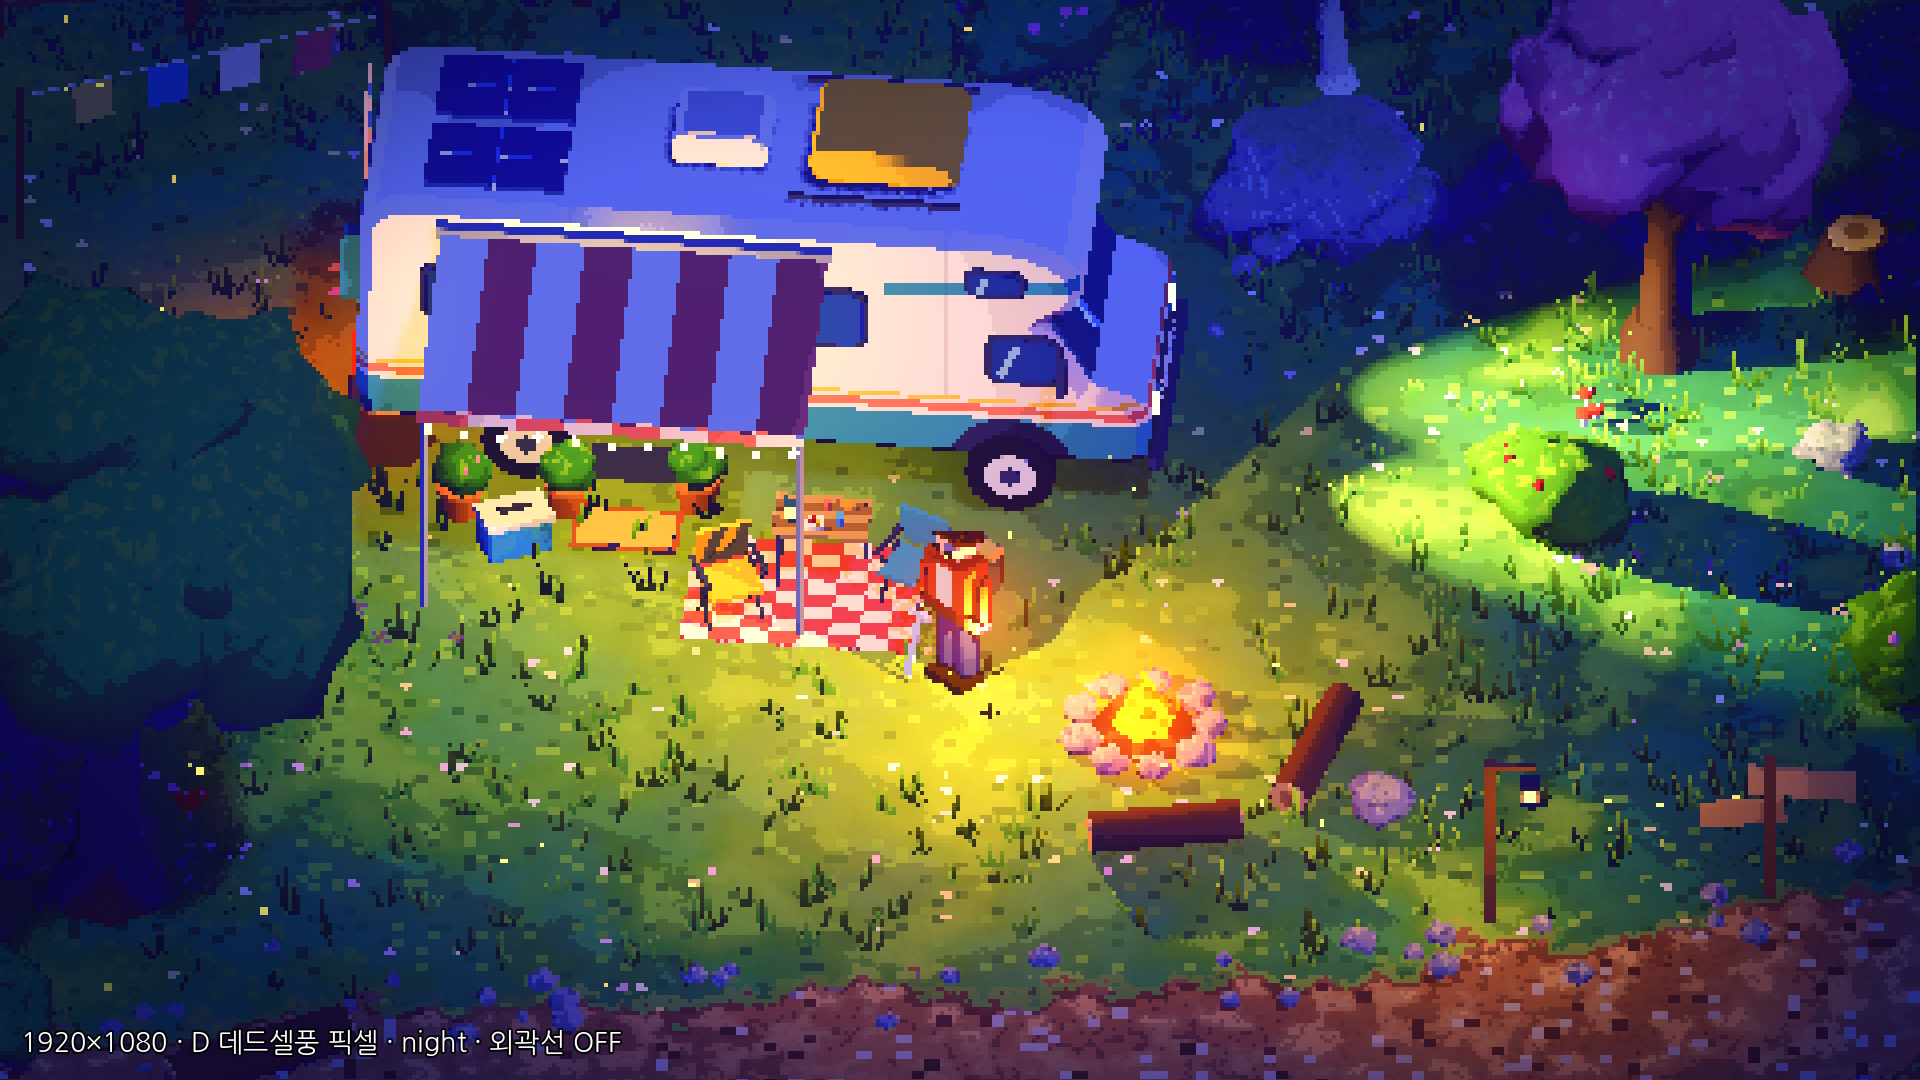
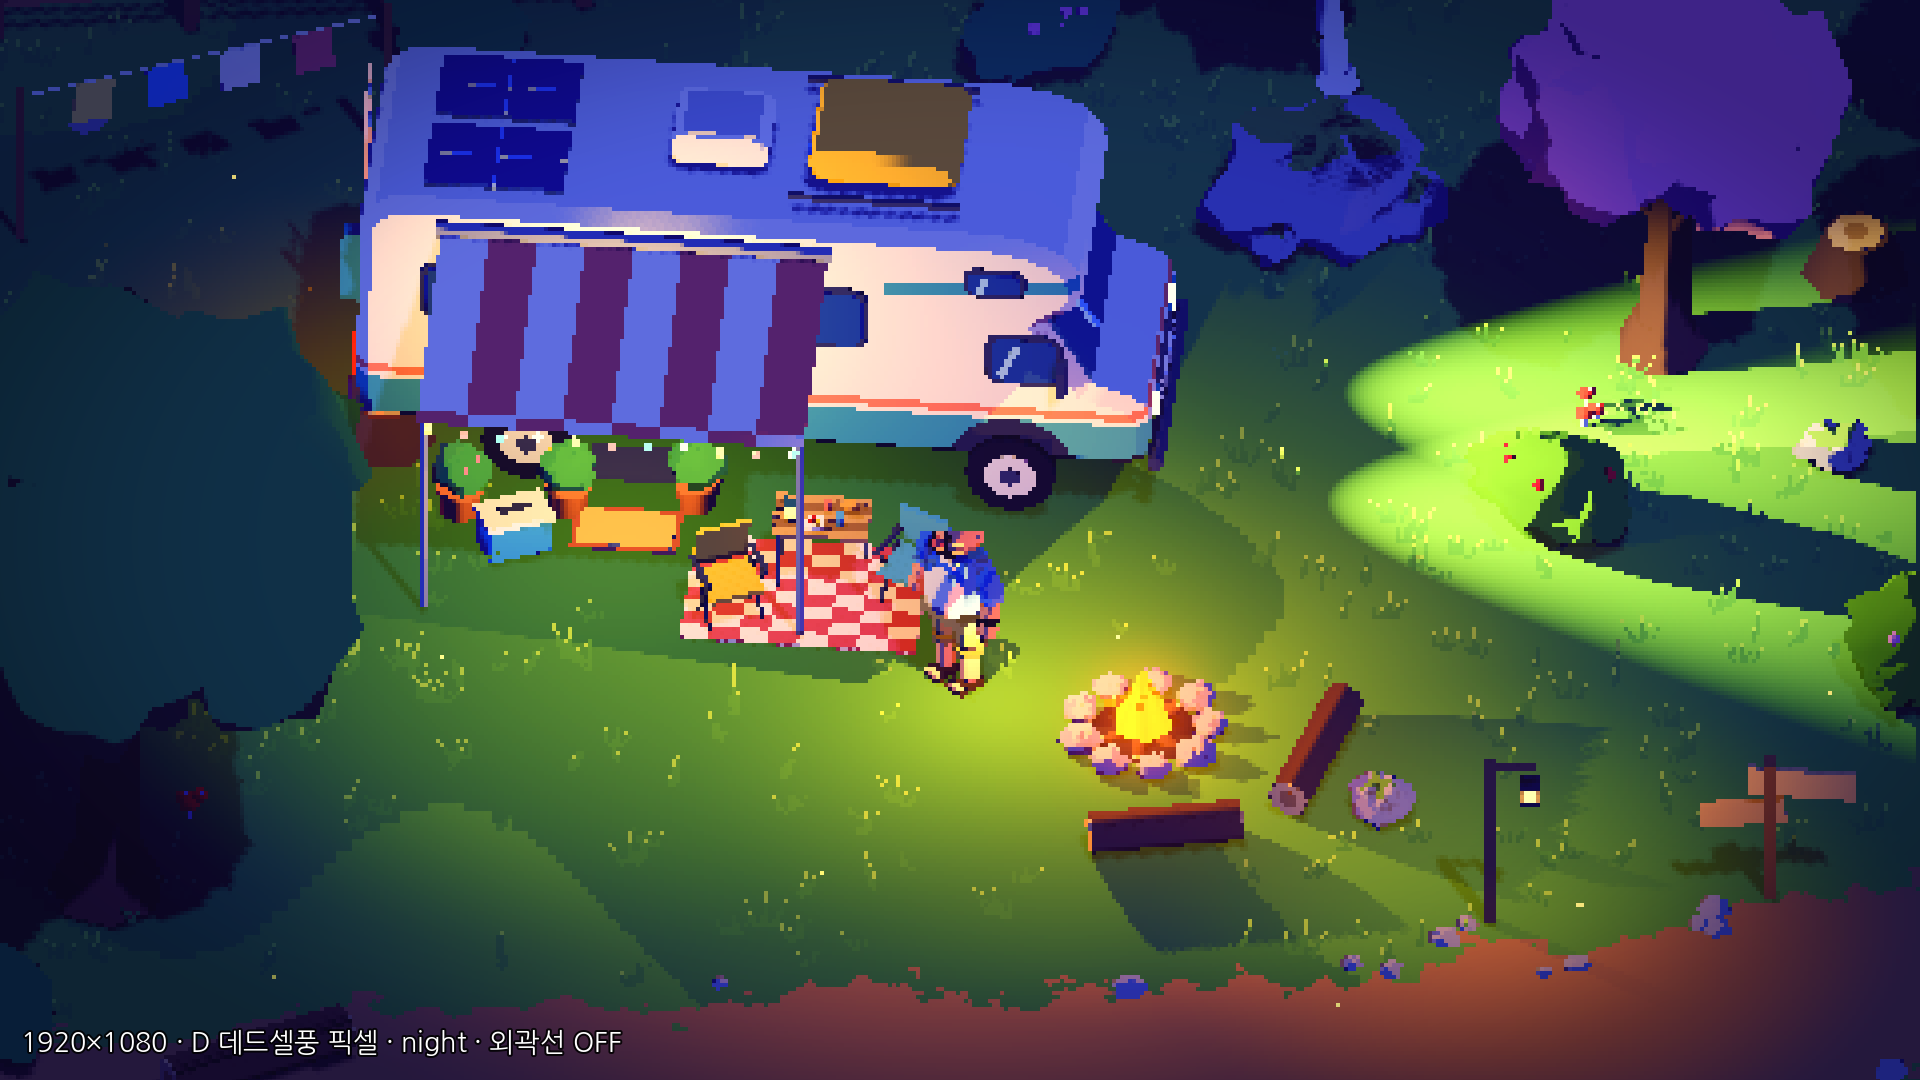
New protagonist and flat cel-shaded look for style D
- Protagonist rebuilt from the concept art, then per feedback: bald, no
  bag (chubby adult, brows/moustache/stubble/red nose, open blue shirt,
  cream tee, compass necklace, cargo shorts, sandals, watch)
- Flat cel shading: two-tone no-wrap light for all materials; detail=0
  removes painted noise/specks/flowers; no luma bands or SSAO in D
- Hard-edged shadows; foliage no longer receives shadows (aliasing hatch)
- Fewer sparkles: motes, embers, bloom, bulbs, flowers, grass, pebbles
- Grass blades keep an up normal on back faces

Claude-Session: https://claude.ai/code/session_01K53dp3QXZsLd6yNF78ES5J

diff --git a/notes/VISUAL_DIRECTION.md b/notes/VISUAL_DIRECTION.md
@@ -5,7 +5,18 @@
 
 ![요약](../captures/visual_direction/00_summary_before_A_B_C.png)
 
-## 추가: D 데드셀풍 픽셀 (현재 기본값)
+## 갱신: D = 단색 셀 채색 (현재 기본값)
+
+사용자 피드백("너무 디테일함, 단색에 명암만, 반짝이 줄이기")에 따라 D를 다시 조정했습니다. 최신 화면은 `captures/hd_1080p/`.
+
+- **단색 + 2단 명암:** 모든 재질을 랩 없는 셀 라이팅(빛/그림자 2단)으로 바꿨습니다. 지형·나뭇잎·바위·풀의 붓터치, 반점, 꽃 반점, 잎 뭉치 무늬는 끔(`detail = 0`). 지면은 잔디 2톤 + 흙 + 모래만 남김.
+- **명도 계단(luma bands)과 SSAO 끔:** 셀 명암만으로 입체를 표현합니다.
+- **그림자:** 부드러운 반그림자가 픽셀화하면 점묘처럼 지글거려서, 경계가 딱 떨어지는 그림자로 바꿈. 나뭇잎은 그림자를 받지 않음(덩어리끼리의 그림자가 빗금처럼 보였음). 땅에는 그대로 드리움.
+- **반짝이 감소:** 떠다니는 입자 90→18개(밝기 절반), 모닥불 불씨 26→12개, 블룸 약화, 줄전구 발광 절반, 꽃 군락 숨김, 풀 다발 8,400→3,700개, 자갈 700→250개.
+- **외곽선:** 기본 OFF(`O`로 켬).
+- **주인공:** 콘셉트 이미지 기반 → 사용자 수정 반영(대머리, 가방 제거). 통통한 체형, 굵은 눈썹·콧수염·수염 자국·붉은 코, 열린 파란 반팔 셔츠 + 크림 티셔츠, 나침반 목걸이, 카키 카고 반바지, 샌들, 손목시계. 무기는 없음(공격 모션은 팔 휘두르기 임시).
+
+## 이전: D 데드셀풍 픽셀 (첫 버전)
 
 ![C vs D](../captures/visual_direction/01_summary_C_vs_D_deadcells.png)
 

diff --git a/notes/IMPLEMENTATION_ASSUMPTIONS.md b/notes/IMPLEMENTATION_ASSUMPTIONS.md
@@ -27,7 +27,7 @@
 | 10.3 F 라이트 사용 조건 | 캠핑카 중심 7.5m 이내에서만 토글. 상태는 씬 전환 후에도 유지 | `visual_lab.gd`, `game.gd` |
 | 4.1 / 4.2 달리기 | `Shift` = 달리기(6.0 m/s, 걷기 3.6 m/s). SP 소모 없음 — 수치는 P1에서 결정 | `prototype_player.gd` |
 | 4.2 공격 애니메이션 길이 | 0.32초 수평 베기 1종, 판정 없음 | `prototype_player.gd` |
-| 2.2 주인공 외형 | **최종 외형 아님.** 판독용 임시 인형: 빨간 재킷, 남색 바지, 갈색 머리, 녹색 배낭, 임시 철검 | `prototype_player.gd` |
+| 2.2 주인공 외형 | 사용자 제공 콘셉트 이미지 기반 + 사용자 수정(대머리, 가방 없음): 통통한 성인, 콧수염, 붉은 코, 파란 반팔 셔츠·크림 티·카키 반바지·샌들. 무기 없음(공격은 임시 팔 휘두르기). **GDD에는 아직 [미정] — 시각 검증용 모델** | `player_rig.gd` |
 | 7 몬스터 | 슬라임 1종, 집 주변 반경 3.5m 무작위 깡충 이동. AI·전투·선공 없음. 눈만 약하게 발광(밤 식별 실험용) | `slime_visual.gd` |
 | 9.1 캠핑카 외형 | 현대식 C급 모터홈 임시 모델(길이 7.2m, 폭 2.4m, 운전석 위 알코브, 측면 줄무늬). 이름·색은 미정 | `camper_exterior.gd` |
 | 9.1 실내 확장 | 외부 폭 2.4m 대비 실내 9×4.4m 방 1개로 "마법 확장" 느낌만 실험. 모듈·배치 시스템 없음 | `camper_interior_lab.gd` |
